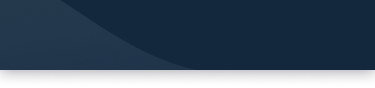
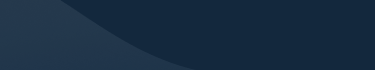
Picker component design changed Background images fixed React SVG package reverted to old version (Mask not working)

Changed region(s): [[0.0, 0.7714, 1.0, 1.0]]

diff --git a/src/components/ModalPicker.js b/src/components/ModalPicker.js
@@ -4,6 +4,7 @@ import {
   ScrollView,
   Text,
   StyleSheet,
+  Image,
   ImageBackground,
   TouchableOpacity,
   BackHandler,
@@ -15,6 +16,9 @@ import { strNormalize } from '../helpers';
 import TopBar from 'amani-rn-sdk/src/components/TopBar';
 import mainBackground from '../../assets/main-bg.png';
 import backArrow from '../../assets/back-arrow.png';
+import searchIcon from '../../assets/search-icon.png';
+import itemBackground from '../../assets/select-bg.png';
+import forwardArrrow from '../../assets/forward-arrow.png';
 
 const ModalPicker = (props) => {
   const {
@@ -25,6 +29,8 @@ const ModalPicker = (props) => {
     disabled,
     selected,
     animation,
+    title,
+    searchable,
   } = props;
 
   const [show, setShow] = useState(selected);
@@ -57,15 +63,6 @@ const ModalPicker = (props) => {
     }
   };
 
-  const topbarMiddle = (
-    <TextInput
-      style={styles.searchInput}
-      onChangeText={(value) => setFilter(strNormalize(value.toLowerCase('tr')))}
-      placeholder="Ara"
-      placeholderTextColor="#CAE0F5"
-    />
-  );
-
   return (
     <Fragment>
       <Modal
@@ -80,8 +77,27 @@ const ModalPicker = (props) => {
             onLeftButtonPressed={closeModal}
             leftButtonIcon={backArrow}
             style={styles.topbar}
-            middleComponent={topbarMiddle}
+            title={title}
           />
+
+          {searchable && (
+            <View style={styles.searchArea}>
+              <TextInput
+                style={styles.searchInput}
+                onChangeText={(value) =>
+                  setFilter(strNormalize(value.toLowerCase('tr')))
+                }
+                placeholder="Ara"
+                placeholderTextColor="#CAE0F5"
+              />
+              <Image
+                resizeMode="contain"
+                style={styles.searchIcon}
+                source={searchIcon}
+              />
+            </View>
+          )}
+
           <ScrollView>
             {items
               .filter((item) => {
@@ -89,13 +105,16 @@ const ModalPicker = (props) => {
               })
               .map((item) => {
                 return (
-                  <View style={styles.item} key={item.name}>
-                    <TouchableOpacity
-                      style={styles.itemTouch}
-                      onPress={() => selectItem(item)}>
+                  <TouchableOpacity
+                    key={item.name}
+                    onPress={() => selectItem(item)}>
+                    <ImageBackground
+                      style={styles.item}
+                      source={itemBackground}>
                       <Text style={styles.itemText}>{item.name}</Text>
-                    </TouchableOpacity>
-                  </View>
+                      <Image source={forwardArrrow} style={styles.itemArrow} />
+                    </ImageBackground>
+                  </TouchableOpacity>
                 );
               })}
           </ScrollView>
@@ -113,6 +132,7 @@ ModalPicker.defaultProps = {
   animation: 'slide',
   items: [],
   selected: false,
+  searchable: true,
   onClose: () => {
     return null;
   },
@@ -124,32 +144,48 @@ ModalPicker.defaultProps = {
 const styles = StyleSheet.create({
   container: {
     flex: 1,
-    justifyContent: 'center',
-    alignContent: 'center',
   },
   topbar: {
-    paddingVertical: 40,
+    paddingVertical: 20,
     paddingHorizontal: 20,
+    backgroundColor: 'red',
+    marginBottom: 10,
   },
   item: {
     marginHorizontal: 20,
-    borderColor: 'rgba(255, 255, 255, .3)',
-    borderBottomWidth: 2,
-  },
-  itemTouch: {
-    paddingVertical: 15,
+    borderRadius: 10,
+    paddingHorizontal: 10,
+    overflow: 'hidden',
+    justifyContent: 'space-between',
+    alignItems: 'center',
+    marginBottom: 10,
+    flexDirection: 'row',
   },
   itemText: {
     color: '#ffffff',
+    paddingVertical: 15,
+  },
+  itemArrow: {
+    width: 20,
+    height: 20,
+    resizeMode: 'contain',
+  },
+  searchArea: {
+    flexDirection: 'row',
+    alignItems: 'center',
+    marginHorizontal: 20,
+    marginBottom: 10,
+    borderBottomWidth: 2,
+    borderColor: 'rgba(255, 255, 255, .3)',
+    paddingBottom: 5,
   },
   searchInput: {
     color: '#ffffff',
-    marginLeft: 10,
-    borderWidth: 1,
-    borderColor: 'rgba(255, 255, 255, .3)',
     flex: 1,
-    borderRadius: 10,
-    padding: 10,
-    paddingVertical: 5,
+    paddingVertical: 0,
+  },
+  searchIcon: {
+    width: 30,
+    height: 30,
   },
 });

diff --git a/src/components/SmartContract/ContractScreen.js b/src/components/SmartContract/ContractScreen.js
@@ -222,7 +222,6 @@ const ContractScreen = (props) => {
     return (
       <ImageBackground source={mainBackground} style={styles.container}>
         <TopBar
-          style={{ paddingHorizontal: 20, paddingTop: 40, paddingBottom: 30 }}
           onLeftButtonPressed={onContractDecline}
           leftButtonIcon={backArrow}
           title={currentDocument.title}
@@ -237,6 +236,8 @@ const ContractScreen = (props) => {
               <ModalPicker
                 selectView={selectJobView}
                 items={jobList}
+                title="Meslek Seç"
+                searchable={false}
                 onSelected={(val) => {
                   setFormData({
                     ...formData,
@@ -263,13 +264,14 @@ const ContractScreen = (props) => {
               <ModalPicker
                 selectView={selectCityView}
                 items={sortCities(cities)}
-                onSelected={(val) => {
+                title="İl Seç"
+                onSelected={(val) =>
                   setFormData({
                     ...formData,
                     city: (val && val.name) || null,
                     district: null,
-                  });
-                }}
+                  })
+                }
               />
             </View>
 
@@ -277,6 +279,7 @@ const ContractScreen = (props) => {
               <ModalPicker
                 disabled={!formData.city}
                 selectView={selectProvinceView}
+                title="İlçe Seç"
                 items={
                   cities.find(
                     (city) => city.name === (formData.city || 'Adana'),

diff --git a/src/components/TopBar.js b/src/components/TopBar.js
@@ -95,7 +95,7 @@ const styles = StyleSheet.create({
   withBackground: {
     paddingHorizontal: 20,
     paddingTop: 40,
-    paddingBottom: 30,
+    paddingBottom: 10,
   },
   topBarIcon: {
     width: width * 0.055,

diff --git a/src/store/documents.js b/src/store/documents.js
@@ -63,7 +63,7 @@ export const initialDocuments = [
   },
   {
     id: 'SE',
-    title: 'Selfie',
+    title: 'Selfie Çek',
     status: 'NOT_UPLOADED',
     steps: [
       {

diff --git a/README.md b/README.md
@@ -5,41 +5,43 @@ amani-rn-sdk is a library that brings amani artifical intelligence modules toget
 ## Installation
 
 By yarn:
+
 ```bash
 yarn add https://git@github.com/AmaniTechnologiesLtd/amani-rn-sdk
 ```
 
 or NPM:
+
 ```bash
 npm install https://git@github.com/AmaniTechnologiesLtd/amani-rn-sdk
 ```
 
 ### Required dependencies:
 
-| Name | Recommended Version |
-| ------ | ------ |
-| react-native-camera | 3.15.0 |
-| react-native-fs | 2.16.2 |
-| react-native-webview | 9.1.1 |
-| react-native-svg | 12.0.3 |
-| @react-native-community/image-editor | 2.3.0 |
-| react-native-document-picker | 3.2.4 |
-| react-native-device-info | 5.4.1 |
-| @react-native-community/geolocation | 2.0.2 |
+| Name                                 | Recommended Version |
+| ------------------------------------ | ------------------- |
+| react-native-camera                  | 3.15.0              |
+| react-native-fs                      | 2.16.2              |
+| react-native-webview                 | 9.1.1               |
+| react-native-svg                     | 10.1.0              |
+| @react-native-community/image-editor | 2.3.0               |
+| react-native-document-picker         | 3.2.4               |
+| react-native-device-info             | 5.4.1               |
+| @react-native-community/geolocation  | 2.0.2               |
 
 To get all of these by single command run the following command:
 
 ```bash
-yarn add react-native-camera react-native-webview react-native-svg @react-native-community/image-editor react-native-document-picker react-native-fs react-native-device-info @react-native-community/geolocation
+yarn add react-native-camera react-native-webview react-native-svg@10.1.0 @react-native-community/image-editor react-native-document-picker react-native-fs react-native-device-info @react-native-community/geolocation
 ```
 
 or
 
 ```bash
-npm install react-native-camera react-native-webview react-native-svg @react-native-community/image-editor react-native-document-picker react-native-fs react-native-device-info @react-native-community/geolocation
+npm install react-native-camera react-native-webview react-native-svg@10.1.0 @react-native-community/image-editor react-native-document-picker react-native-fs react-native-device-info @react-native-community/geolocation
 ```
 
-If your React Native version is below the 0.60,  to link all these dependencies to your project, please run command below.
+If your React Native version is below the 0.60, to link all these dependencies to your project, please run command below.
 
 ```bash
 react-native link
@@ -50,12 +52,14 @@ react-native link
 ### Append these code lines to shown paths
 
 android/app/src/main/AndroidManifest.xml:
+
 ```xml
 <uses-permission android:name="android.permission.CAMERA" />
 <uses-permission android:name="android.permission.ACCESS_FINE_LOCATION" />
 ```
 
 android/app/build.gradle:
+
 ```gradle
 android {
     ...
@@ -67,16 +71,17 @@ android {
 ```
 
 android/app/src/main/java/[...]/MainApplication.java:
+
 ```java
 import com.rnfs.RNFSPackage;
 ```
-
 
 ## IOS Configuration
 
 ### Append these code lines to shown paths
 
 ios/[...]/Info.plist:
+
 ```xml
 <key>NSCameraUsageDescription</key>
 <string>Example Camera Description</string>
@@ -90,6 +95,7 @@ ios/[...]/Info.plist:
 ```
 
 ios/Podfile:
+
 ```ruby
 pod 'react-native-geolocation', path: '../node_modules/@react-native-community/geolocation'
 ```
@@ -102,43 +108,40 @@ cd ios && pod install
 
 ## Integration
 
-| Available props | Required | Type | Default |
-| ------ | ------ | ------ | ------|
-| authData | true | object | - |
-| customerData | true | object | - |
-| server | false | string | tr |
-| onError | false | callback function | - |
-| onExit | false | callback function | - |
-
+| Available props | Required | Type              | Default |
+| --------------- | -------- | ----------------- | ------- |
+| authData        | true     | object            | -       |
+| customerData    | true     | object            | -       |
+| server          | false    | string            | tr      |
+| onError         | false    | callback function | -       |
+| onExit          | false    | callback function | -       |
 
 ```js
-import AmaniAi from 'amani-rn-sdk'
+import AmaniAi from 'amani-rn-sdk';
 
 // These given values are all fake, they all just to show usage of this package.
 const authValues = {
-    appKey: 'exampleAppKey',
-    appPassword: 'exampleAppPasword'
-}
+  appKey: 'exampleAppKey',
+  appPassword: 'exampleAppPasword',
+};
 
 const customer = {
+  id_card_number: '00000000000', // If you have a customer that already exists in Amani Service, pass the id here,
 
-    id_card_number: '00000000000', // If you have a customer that already exists in Amani Service, pass the id here,
-
-    // Or create a new customer
-    id_card_number: '00000000000', // Like TC Number
-    name: 'example name',
-    email: 'example@mail.com',
-    phone: '+905321111111'
-
-}
+  // Or create a new customer
+  id_card_number: '00000000000', // Like TC Number
+  name: 'example name',
+  email: 'example@mail.com',
+  phone: '+905321111111',
+};
 
 return (
-    <AmaniAi
-        server="tr"
-        authData={authValues}
-        customerData={customer}
-        onError={error => console.log(error)}
-        onExit={values => console.log(values)}
-    />
-)
+  <AmaniAi
+    server="tr"
+    authData={authValues}
+    customerData={customer}
+    onError={(error) => console.log(error)}
+    onExit={(values) => console.log(values)}
+  />
+);
 ```
